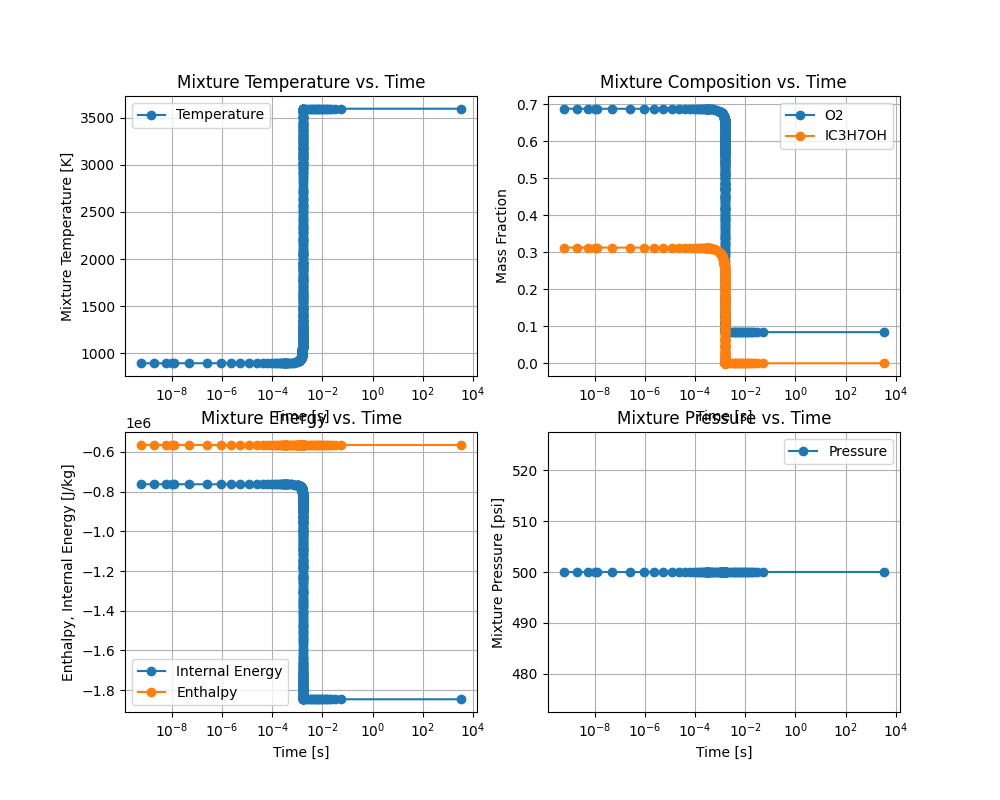
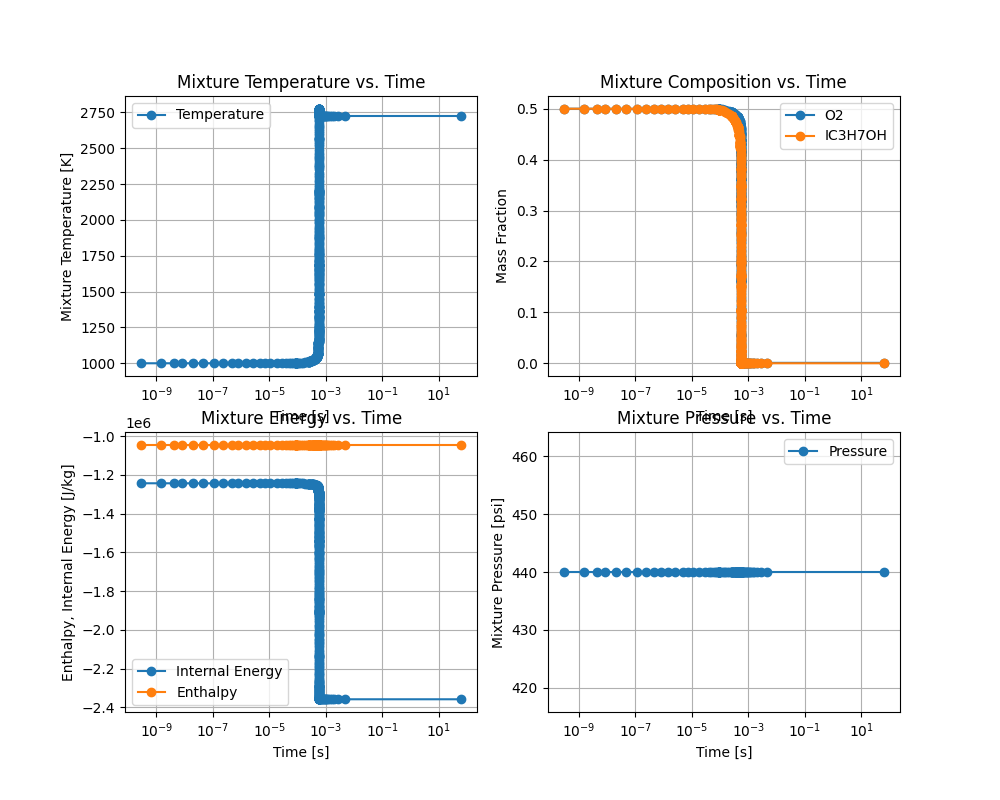
h

diff --git a/MARLIN V2/Tenkara/4 - Subteams/TCA/Development/MIE_Refactored/MIE_Refactored/run.py b/MARLIN V2/Tenkara/4 - Subteams/TCA/Development/MIE_Refactored/MIE_Refactored/run.py
@@ -39,6 +39,8 @@ import warnings
 import os
 warnings.filterwarnings("ignore")
 
+print(ct.__file__)
+
 IN2M = 0.0254
 FT2IN = 12
 
@@ -57,16 +59,20 @@ def load_config(config_path):
         config_data = yaml.safe_load(f)
     return config_data
 
-# Parse Setpoints From YAML
-TCA_config = load_config('TCA_params.yaml')
+main_dir = os.getcwd()
+params_path = os.path.join(main_dir, "MARLIN V2", "Tenakra", "4 - Subteams", "TCA", "Inputs", "TCA_params.yaml")
+params_path = main_dir + r"MARLIN V2\Tenkara\4 - Subteams\TCA\Development\MIE_Refactored\MIE_Refactored\TCA_params.yaml"
 
-OF = TCA_config['oxidizer_fuel_ratio']
-mdot_main = TCA_config['turbopump_mdot']
-Pc_main = TCA_config['tca_chamber_pressure']
-lstar = TCA_config['characteristic_length']
-Dt = TCA_config['tca_throat_diameter']
-expansion_ratio = TCA_config['tca_expansion_ratio']
-eta_cstar = TCA_config['c_star_efficiency']
+# Parse Setpoints From YAML
+TCA_config = load_config(r"Inputs\TCA_params.yaml")
+
+OF = TCA_config['of_ratio']
+mdot_main = TCA_config['tp_mdot']
+Pc_main = TCA_config['chamber_pressure']
+lstar = TCA_config['L_star']
+Dt = TCA_config['throat_diameter']
+expansion_ratio = TCA_config['expansion_ratio']
+eta_cstar = TCA_config['cstar_efficiency']
 
 # read in simulation configs
 sim_config_path = sys.argv[1]
@@ -96,7 +102,6 @@ At = np.pi * (Dt/2)**2
 Vc = lstar * At
 ts = Vc * rho_main / mdot_main
 print(f"Stay Time [s]: {ts:0.5f}")
-
 
 # Well Stirred Reactor Model to Find AIT of Propellants for Chamber conditions:
 # Stay Time, Chamber Pressure, OF Ratio
